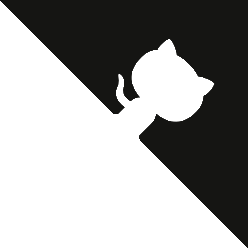
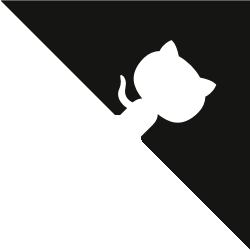
carousel/json数据

diff --git a/src/views/Layout/Home/index.vue b/src/views/Layout/Home/index.vue
@@ -20,28 +20,16 @@
 </template>
 
 <script>
+  import carousel from '@/utils/fakeData/carousel.json'
+
   export default {
     name: 'Home',
+    components: {
+      carousel
+    },
     data () {
       return {
-        carousel: [
-          {
-            id: 1,
-            src: 'https://jerrita.cn/usr/uploads/time/5e77474967cc9.jpg'
-          },
-          {
-            id: 2,
-            src: 'https://jerrita.cn/usr/themes/handsome/assets/img/sj/4.jpg'
-          },
-          {
-            id: 3,
-            src: 'https://jerrita.cn/usr/uploads/time/5e8ae7bd37196.jpg'
-          },
-          {
-            id: 4,
-            src: 'https://jerrita.cn/usr/themes/handsome/assets/img/sj/1.jpg'
-          },
-        ]
+        carousel: carousel.carousel
       }
     }
   }

diff --git a/src/views/Layout/index.vue b/src/views/Layout/index.vue
@@ -2,10 +2,9 @@
   <!-- 主页 -->
   <div class="layout">
     <a href="https://github.com/HelloZXB" class="github" target="_blank">
-      <img src="../../assets/02.png" alt="">
+      <img src="../../assets/01.png" alt="">
     </a>
     <el-container class="el-shadow">
-
       <!-- 头部 -->
       <home-header/>
       <el-container>

diff --git a/src/styles/Layout/Layout.less b/src/styles/Layout/Layout.less
@@ -6,8 +6,8 @@
     top: 0;
     right: 0;
     display: block;
-    width: 100px;
-    height: 100px;
+    width: 80px;
+    height: 80px;
     z-index: 999;
 
     img {

diff --git a/src/styles/Layout/Layout.css b/src/styles/Layout/Layout.css
@@ -6,8 +6,8 @@
   top: 0;
   right: 0;
   display: block;
-  width: 100px;
-  height: 100px;
+  width: 80px;
+  height: 80px;
   z-index: 999;
 }
 .layout .github img {
